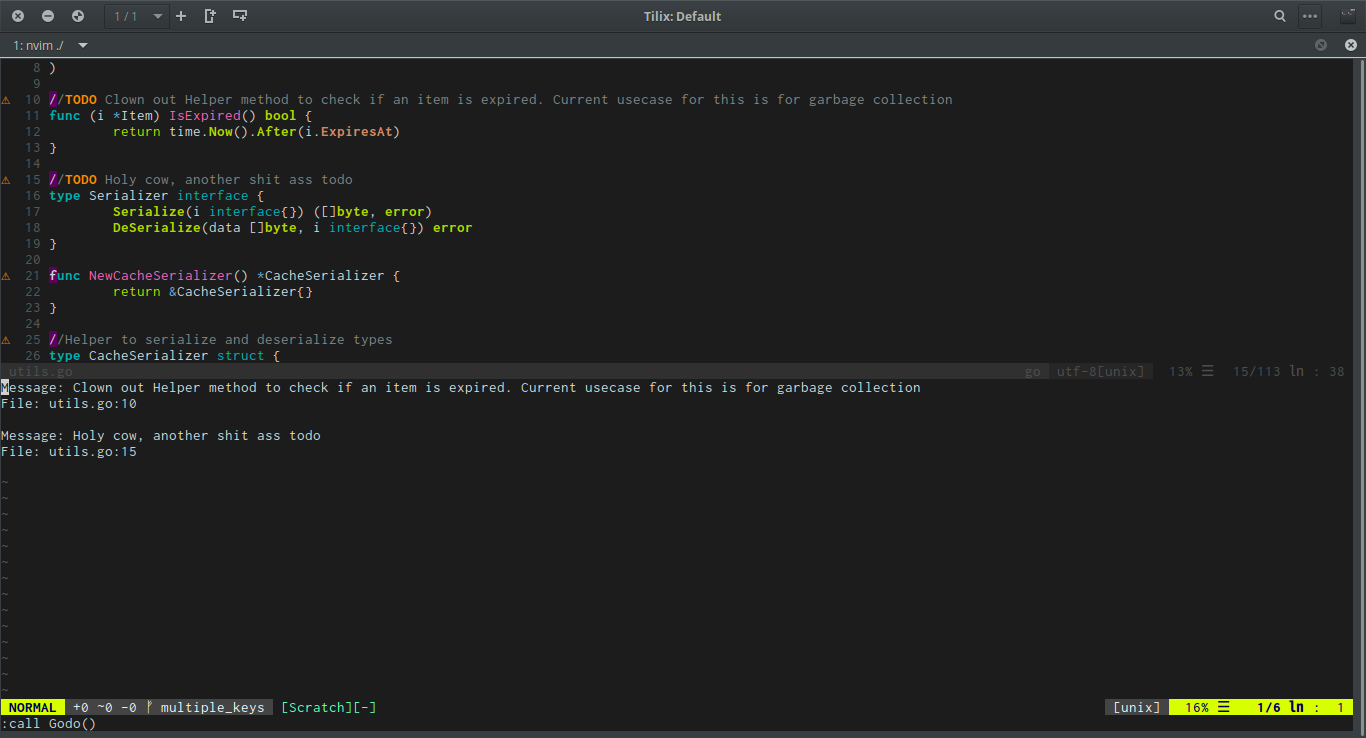
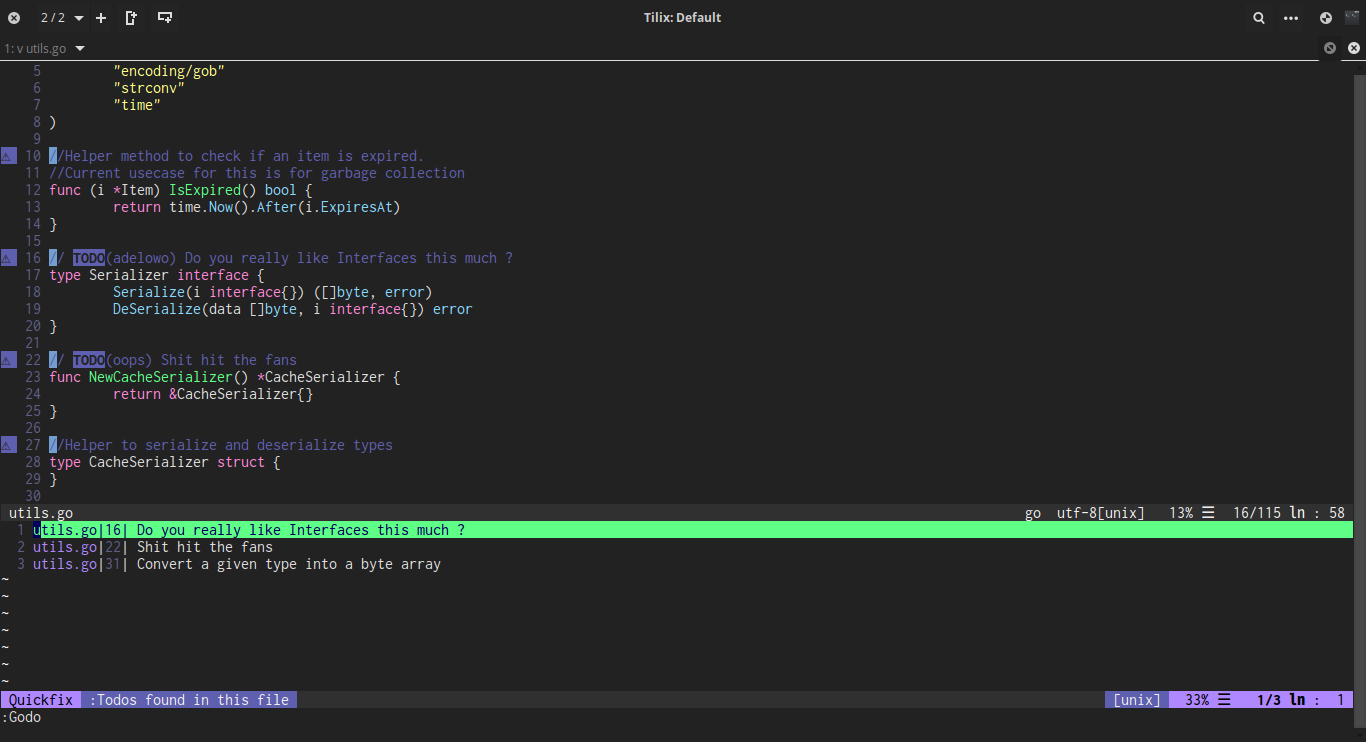
Updated readme and screenshot

diff --git a/README.md b/README.md
@@ -23,7 +23,7 @@ It makes use of `astitodo` underneath.
 	- [x] View todos in a file sorted by assignees with `:Godo assignee_name` (e.g `:Godo adelowo` .)
 	- [x] View todos sorted by multiple assignees with `:Godo assignee_name1 assignee_name2`
 	- [ ] Find all todos in the current folder opened.
-	- [ ] Navigate to the source code line housing the todo message.
+	- [x] Navigate to the source code line housing the todo message.
 	- [x] Show a nice warning message if there aren't any todo in the file.
  - [x] Install `astitodo` binary by running `:GodoInstallBinary`.
  - [x] Update `astitodo` binary by running `:GodoUpdateBinary`.
